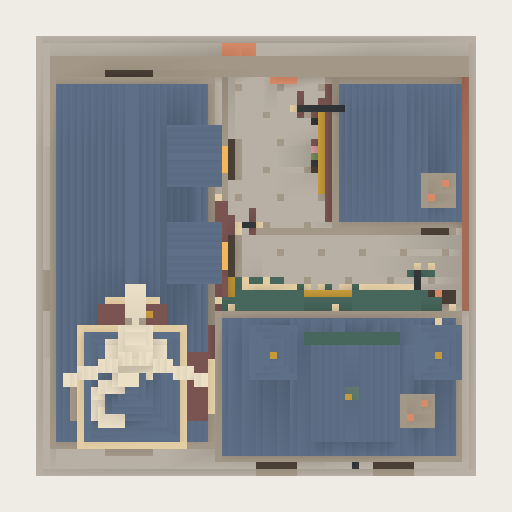
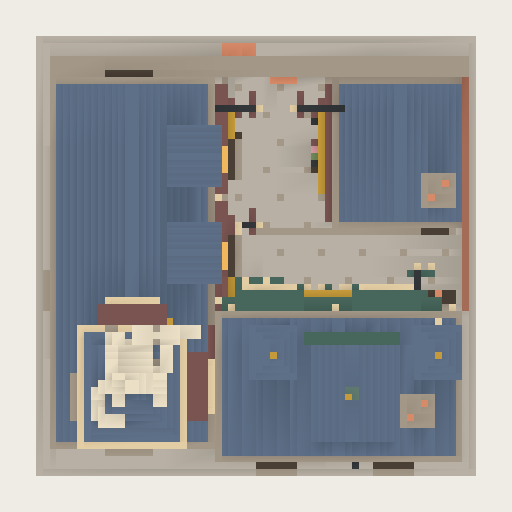
feat: fold alley dragon onto roof and extend entrance shopfront

Changed region(s): [[0.125, 0.5312, 0.4062, 0.8125], [0.4062, 0.1562, 0.5312, 0.2812], [0.4062, 0.3438, 0.4688, 0.375]]

diff --git a/src/generators/diagonAlley.js b/src/generators/diagonAlley.js
@@ -9,7 +9,7 @@ export function diagonAlleySpec() {
     cap:{type:"gable",heightVoxels:roofHeight,orientation},
     materials:{wall,roof:"slate",trim:"timber",window:"warmWindow"},facade:{enabled:false}
   });
-  const spec=createUrbanMassingSpec({id:DIAGON_ASSET_ID,seed:"diagon-alley-v6",widthCells:2,depthCells:2,
+  const spec=createUrbanMassingSpec({id:DIAGON_ASSET_ID,seed:"diagon-alley-v7",widthCells:2,depthCells:2,
     masses:[shop("wand-shop",-18,-1,22,52,29,"shopWine",12),
       shop("bookshop",12,-19,34,20,31,"shopGreen",10),
       shop("apothecary",21,15,18,20,17,"shopWine",9),
@@ -18,7 +18,7 @@ export function diagonAlleySpec() {
       shop("wine-dormer-middle",-9,0,8,9,5,"shopWine",6,32,"east_west"),
       {...shop("landmark-tower",-18,-19,14,16,28,"shopWine",18,29),
         cap:{type:"spire",heightVoxels:18}} ]});
-  return {...spec,assetId:DIAGON_ASSET_ID,assetRevision:6,footprint:{...spec.footprint,worldWidth:8,worldDepth:8}};
+  return {...spec,assetId:DIAGON_ASSET_ID,assetRevision:7,footprint:{...spec.footprint,worldWidth:8,worldDepth:8}};
 }
 
 export function addDiagonDetails(buffer) {
@@ -96,6 +96,8 @@ export function addDiagonDetails(buffer) {
   const books=facade(-4,-9,"front");
   const potions=facade(12,6,"left");
   shopfront(wand,"shopWine",26,"wands");
+  // Continue the interior retail frontage right up to the concealed entrance.
+  shopfront(facade(-7,10,"right"),"shopWine",14,"wands");
   shopfront(books,"shopGreen",30,"books");
   shopfront(potions,"shopWine",18,"potions");
   for(const u of [3,18]) oriel(wand,u,19,5,9,"shopWine");
@@ -114,35 +116,37 @@ export function addDiagonDetails(buffer) {
   }
   for(const x of [-25,-12]) box("sandstone",x,40,-11,1,15,1);
   for(const z of [-27,-12]) box("sandstone",-11,40,z,1,15,1);
-  // The dragon hugs the forward slope; there is no pedestal on the peak.
-  // Feet and curling tail follow the actual compiled roof heightfield.
-  box("limestone",-20,67,-18,5,5,8);
-  box("limestone",-19,71,-13,3,5,3);
-  box("limestone",-19,75,-11,3,3,3);
-  box("limestone",-19,76,-8,3,2,4);
-  for(const x of [-19,-17]) box("stoneShadow",x,78,-10,1,2,1);
-  box("gildedMetal",-16,77,-9,1,1,1);
-  for(const x of [-22,-15]) {
-    const footY=(spireSurface.get(`${x},-15`)??60)+1;
-    box("limestone",x,footY,-15,2,2,3);
-    box("limestone",x,footY+2,-15,2,Math.max(1,69-footY),2);
-    box("limestone",Math.min(x,-20),69,-15,Math.abs(x+20)+2,2,2);
+  // Prone dragon: its belly follows the roof, not an upright torso.
+  const roofY=(x,z)=>(spireSurface.get(`${x},${z}`)??57)+1;
+  for(let z=-20;z<=-13;z++) for(let x=-20;x<=-16;x++)
+    box("limestone",x,roofY(x,z),z,1,3,1);
+  // Low bent neck turns outward into the alley; muzzle points across the roof.
+  box("limestone",-18,66,-13,4,3,3);
+  box("limestone",-15,67,-13,4,3,3);
+  box("limestone",-12,67,-12,4,2,2);
+  for(const z of [-13,-11]) box("stoneShadow",-15,70,z,1,2,1);
+  box("gildedMetal",-13,69,-10,1,1,1);
+  // Four spread claws clasp the sloping slate on either side of the belly.
+  for(const z of [-18,-13]) for(const x of [-22,-15]) {
+    const y=roofY(x,z);
+    box("limestone",x,y,z,2,2,2);
+    box("limestone",x===-22?x+1:x-1,y+1,z,2,3,2);
+    box("stoneShadow",x,y,z+2,2,1,1);
   }
   const tail=[[-19,-19],[-20,-19],[-21,-19],[-21,-20],[-22,-20],[-23,-20],[-23,-21],[-24,-21],[-24,-22],[-24,-23],[-24,-24],[-23,-24],[-23,-25],[-22,-25],[-21,-25]];
-  let previousY=69;
+  let previousY=roofY(-19,-19);
   for(const [x,z] of tail) {
     const y=(spireSurface.get(`${x},${z}`)??57)+1;
     box("limestone",x,Math.min(y,previousY),z,2,Math.abs(y-previousY)+2,2);
     previousY=y;
   }
-  for(const sign of [-1,1]) for(let i=1;i<=10;i++) {
-    const x=-18+sign*i;
-    const y=70+Math.floor(i*.9);
-    const top=72+Math.ceil(i*1.2);
-    const z=-16-Math.floor(i/3);
-    box("stoneShadow",x,y,z,1,Math.max(1,top-y),1);
-    box("limestone",x,top,z,1,1,2);
-    if(i===4||i===7) box("limestone",x,y-1,z,1,2,1);
+  // Folded wings run lengthwise beside the back, tapering toward the tail.
+  for(const sign of [-1,1]) for(let i=0;i<9;i++) {
+    const z=-14-i, x=-18+sign*(i<4?4:3);
+    const y=roofY(x,z)+3;
+    const h=i<4?4:Math.max(1,8-i);
+    box("stoneShadow",x,y,z,2,h,1);
+    box("limestone",x,y+h,z,2,1,1);
   }
   const tower=facade(8,-13,"front");window(tower,3,36,5,9);
   box("shopGreen",7,32,-13,14,2,2);box("shopGreen",7,46,-13,14,2,2);
@@ -215,7 +219,7 @@ export function addDiagonDetails(buffer) {
 export function createDiagonAlley({cellWorldSize=4,nightLighting=0}={}) {
   const root=createVoxelMassingLab({spec:diagonAlleySpec(),renderStrategy:"greedy",nightLighting,voxelDetailPass:addDiagonDetails});
   root.name="DiagonAlley";root.scale.setScalar(cellWorldSize/4);
-  root.userData={...root.userData,assetId:DIAGON_ASSET_ID,assetRevision:6,representation:"special-landmark-voxel",
+  root.userData={...root.userData,assetId:DIAGON_ASSET_ID,assetRevision:7,representation:"special-landmark-voxel",
     sphereProjectionRoot:true,footprint:"2x2",entrance:"north",authoredParcelSize:8,voxelSize:.125};
   return root;
 }

diff --git a/test/diagonAlley.test.js b/test/diagonAlley.test.js
@@ -44,9 +44,9 @@ test("partly opening brick wall retains a narrow slit and a clear L-shaped inter
     assert.equal(buffer.getMaterialAt(-4,7,30),"brickRed","opening has displaced brick ends");
     assert.equal(buffer.getMaterialAt(-15,22,24),"shopWine");
     assert.equal(buffer.getMaterialAt(12,25,-10),"shopGreen");
-    assert.equal(buffer.getMaterialAt(-19,76,-6),"limestone","dragon has a long muzzle");
-    for(const x of [-28,-8]) assert.equal(buffer.getMaterialAt(x,84,-19),"limestone","lowered wing tips rise above the head");
-    assert.equal(buffer.getMaterialAt(-20,75,-21),null,"old peak pedestal has been removed");
+    assert.equal(buffer.getMaterialAt(-9,67,-11),"limestone","muzzle turns outward across the roof");
+    for(const x of [-28,-8]) assert.equal(buffer.getMaterialAt(x,84,-19),null,"wings no longer spread high above the roof");
+    for(let z=17;z<=20;z++) assert.equal(buffer.getMaterialAt(-4,8,z),"warmWindow","shop glazing continues toward the entrance");
   }});disposeBuildingObject(model);
 });
 

diff --git a/docs/visual-development/diagon-alley-001/README.md b/docs/visual-development/diagon-alley-001/README.md
@@ -1,4 +1,4 @@
-# 斜角巷 · 2×2 体素商业街（第六版）
+# 斜角巷 · 2×2 体素商业街（第七版）
 
 两层魔杖店、带高阁楼的书店、低矮药剂店夹出一条 L 形内部巷道，魔杖店后部增加独立高塔体量，形成地标。入口朝 +Z，地块为 8×8 世界单位。临街砖墙定格在正在打开的状态：不规则窄缝、前后错动砖端，保留隐蔽感，不含动画。巷道先向里再右转，保持第二版收窄后的布局。
 
@@ -7,6 +7,8 @@
 第五版为酒红主楼增加两扇小老虎窗，在内巷增加三处花箱、折叠遮棚、货桶与包裹。塔顶风向标替换为浅石色飞龙雕塑，采用上扬双翼、长颈吻部与尾巴，保持整数体素。512 图可辨翼形与头颈，但爪、鳞片等细节不追求；属于小尺度轮廓试作，非精细生物模型。
 
 第六版将飞龙改为攀附姿态：移除塔尖底座，身体降低到前侧坡面，双爪和卷尾依据真实屋顶高度场贴合台阶；头颈及双翼仍抬起，尖顶从身体后方露出。
+
+第七版将腹部沿屋顶高度场贴伏，四爪扣住坡面，头颈侧转朝向巷子，双翼沿背部纵向收拢。酒红店铺内侧增加临近入口的橱窗、门和吊牌，外侧隐蔽砖墙不变。81 项相关测试与生产构建通过。
 
 ![正面](front.png)
 
@@ -21,7 +23,7 @@
 - 整栋酒红、墨绿墙面，旧红砖入口，共用蓝灰板岩屋顶和暖琥珀窗光；浅砂色仅作窄饰边，不作大面积墙底。
 - 新增 `shopGreen`、`shopWine` 哑光漆木材质，用于底层店面和吊牌；使用既有 painted 表面着色，非金属、非自发光。
 - `src/generators/diagonAlley.js` 是固定资产源，复用 UrbanMassingSpec、VoxelInstanceBuffer 与 greedy meshing；所有面位于 0.125 体素网格。
-- 9240 三角形；已有/新建 2×2 斜角巷、放置预览、CPU 可视化共用工厂。非 2×2 历史记录保留旧路径。
+- 9302 三角形；已有/新建 2×2 斜角巷、放置预览、CPU 可视化共用工厂。非 2×2 历史记录保留旧路径。
 - 不改变卡牌遮蔽效果、成本或其他玩法。巷道为资产内部视觉空间，不写入城市道路网络。
 - CPU 预览采用简化日光，不完整代表游戏内 AO、动态阴影和夜间发光。
 
